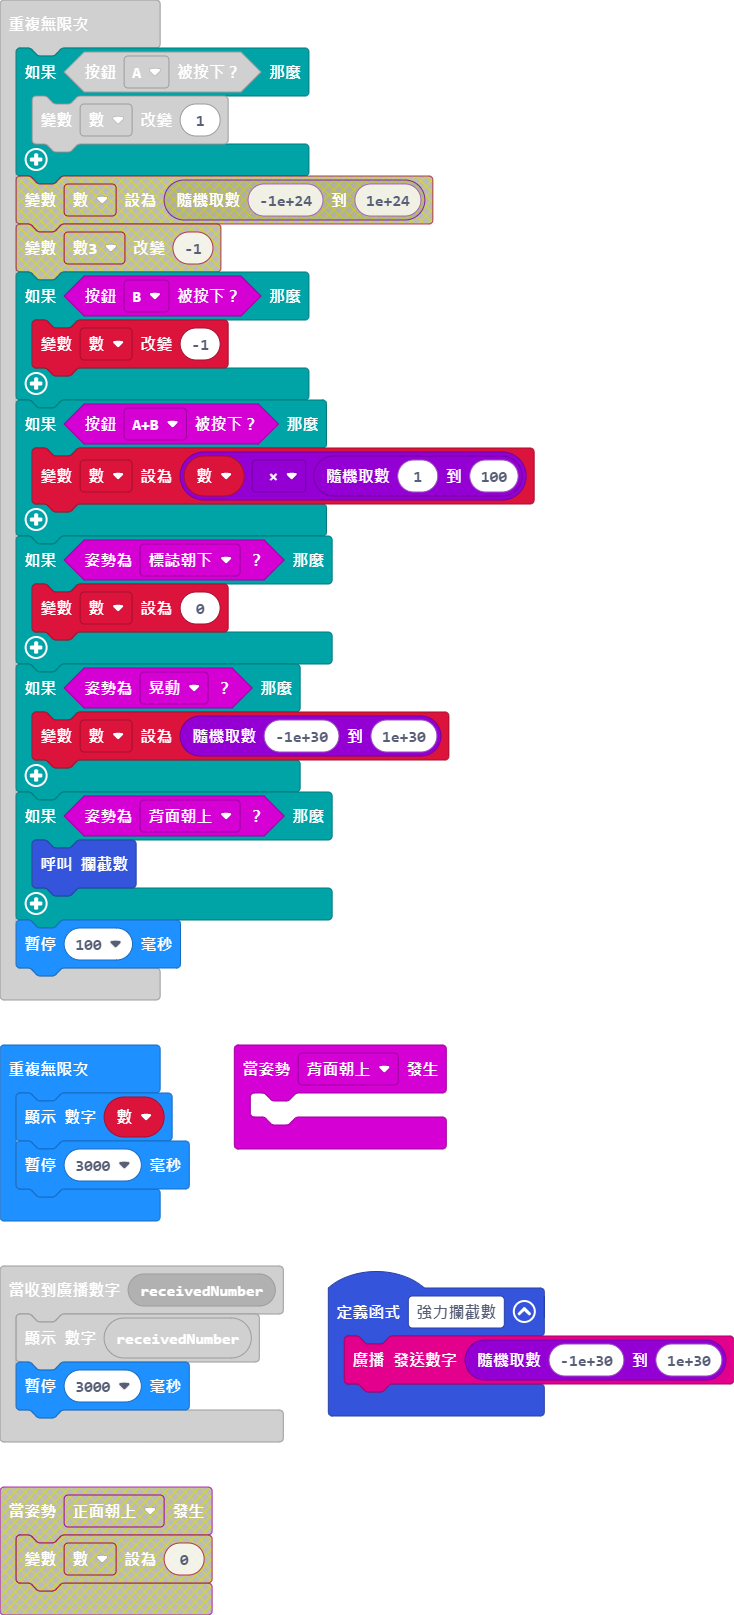
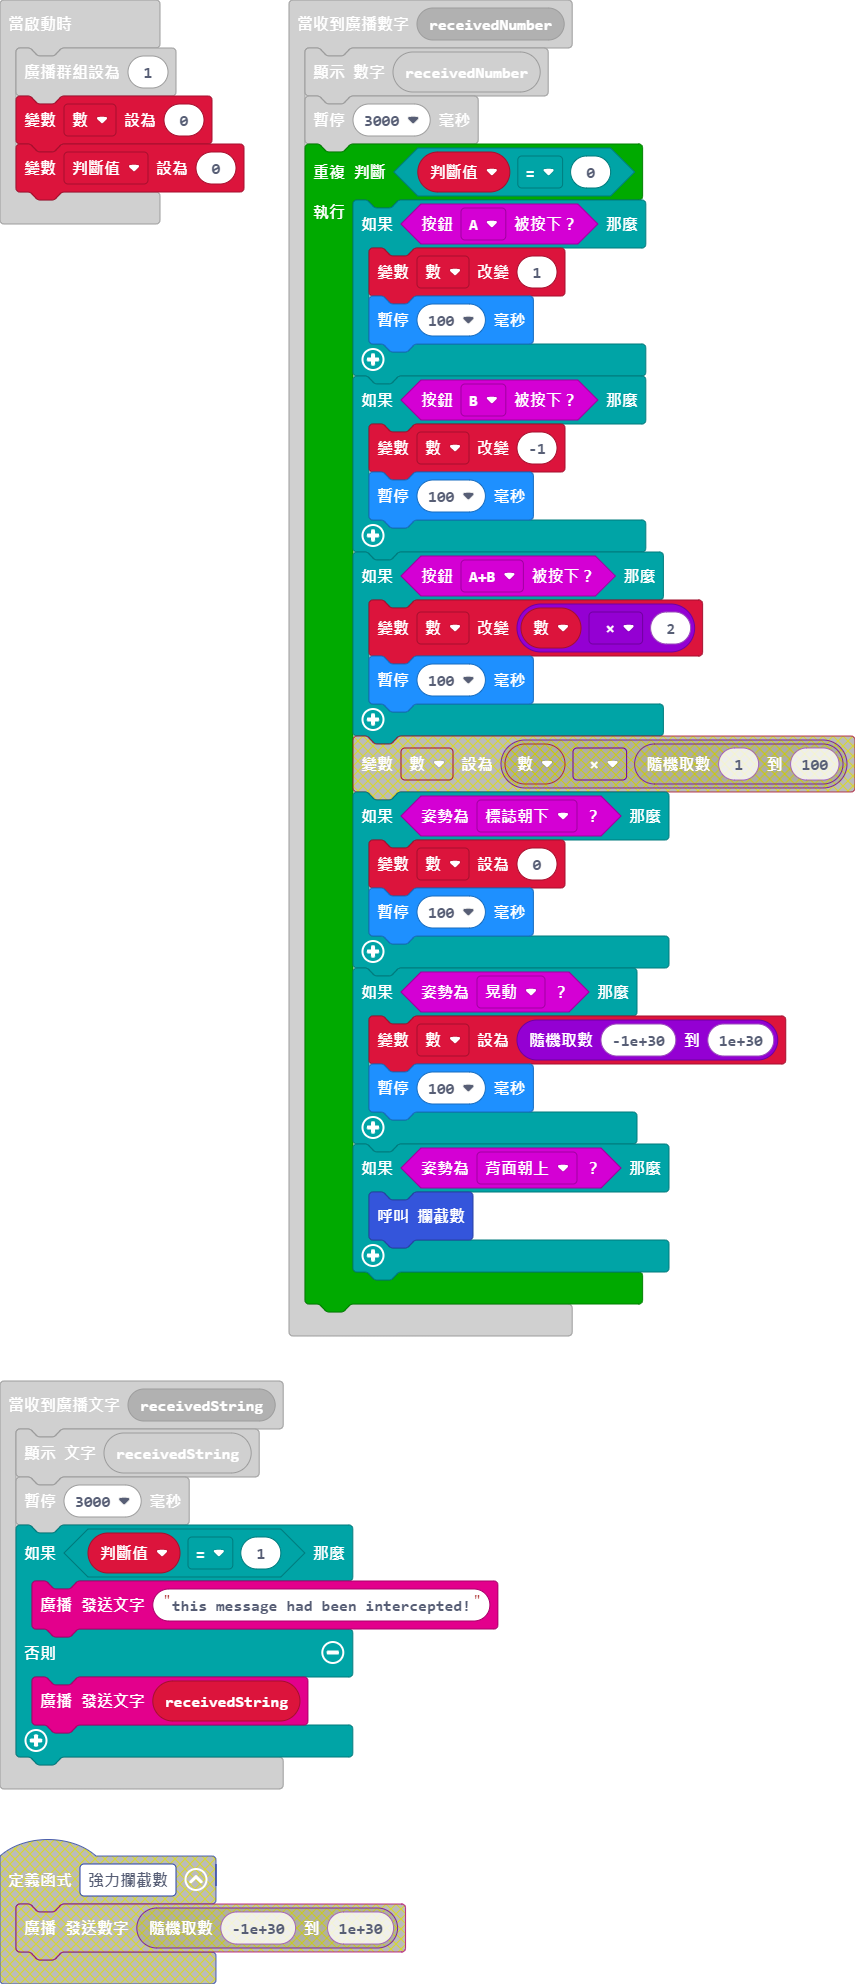
更新 main.blocks, main.ts

diff --git a/main.ts b/main.ts
@@ -1,6 +1,31 @@
 radio.onReceivedNumber(function (receivedNumber) {
     basic.showNumber(receivedNumber)
     basic.pause(3000)
+    while (判斷值 == 0) {
+        if (input.buttonIsPressed(Button.A)) {
+            數 += 1
+            basic.pause(100)
+        }
+        if (input.buttonIsPressed(Button.B)) {
+            數 += -1
+            basic.pause(100)
+        }
+        if (input.buttonIsPressed(Button.AB)) {
+            數 += 數 * 2
+            basic.pause(100)
+        }
+        if (input.isGesture(Gesture.LogoDown)) {
+            數 = 0
+            basic.pause(100)
+        }
+        if (input.isGesture(Gesture.Shake)) {
+            數 = randint(-1e+30, 1e+30)
+            basic.pause(100)
+        }
+        if (input.isGesture(Gesture.ScreenDown)) {
+            攔截數()
+        }
+    }
 })
 input.onGesture(Gesture.ScreenDown, function () {
 	
@@ -8,36 +33,22 @@ input.onGesture(Gesture.ScreenDown, function () {
 radio.onReceivedString(function (receivedString) {
     basic.showString(receivedString)
     basic.pause(3000)
-    radio.sendString(receivedString)
+    if (判斷值 == 1) {
+        radio.sendString("this message had been intercepted!")
+    } else {
+        radio.sendString(receivedString)
+    }
 })
 function 攔截數 () {
     radio.sendNumber(數)
 }
-function 強力攔截數 () {
-    radio.sendNumber(randint(-1e+30, 1e+30))
-}
+let 判斷值 = 0
 let 數 = 0
 radio.setGroup(1)
+數 = 0
+判斷值 = 0
 basic.forever(function () {
-    if (input.buttonIsPressed(Button.A)) {
-        數 += 1
-    }
-    if (input.buttonIsPressed(Button.B)) {
-        數 += -1
-    }
-    if (input.buttonIsPressed(Button.AB)) {
-        數 = 數 * randint(1, 100)
-    }
-    if (input.isGesture(Gesture.LogoDown)) {
-        數 = 0
-    }
-    if (input.isGesture(Gesture.Shake)) {
-        數 = randint(-1e+30, 1e+30)
-    }
-    if (input.isGesture(Gesture.ScreenDown)) {
-        攔截數()
-    }
-    basic.pause(100)
+	
 })
 basic.forever(function () {
     basic.showNumber(數)
